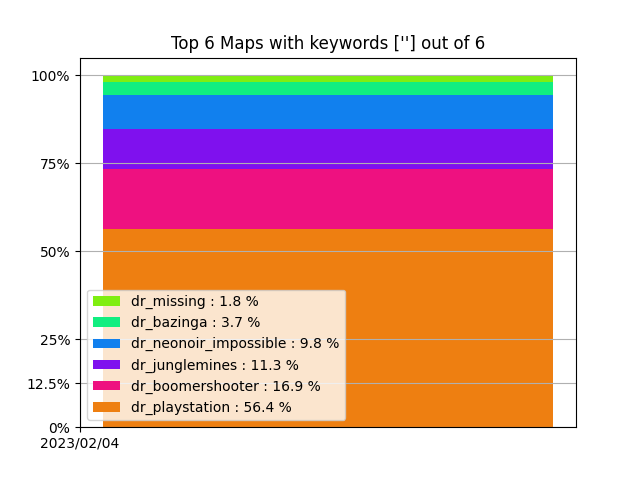
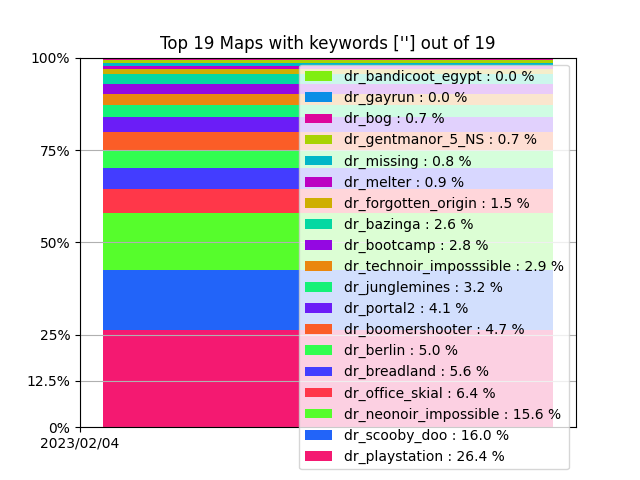
Fixed issue where writer would add maps from incorrect gamemodes.

diff --git a/write.py b/write.py
@@ -5,6 +5,7 @@ import datetime
 import requests
 import socket
 import csv
+import re
 from time import time,sleep
 
 #Manually adding submodule path from this path
@@ -26,13 +27,22 @@ Gamemode = "dr_"# Gamemode dr_,pl_,ctf_
 OutputFileName = "output.csv" #Output Filename
 RuntimeMinutes = 60 #for how many minutes to run.
 RunForever = True #True will run forever. Set to False to use runtime 
-Format = '%Y-%m-%d-%H:%M:%S' # date format
 
-#scan masterserver for ips, output address if it is running the desired gamemode
+
+#Do not touch
+Format = '%Y-%m-%d-%H:%M:%S'
+
+def PrefixEnsure(string):#Ensures that the gamemode is correct
+    prefix = re.split("_",string)[0].lower()+"_" 
+    if(prefix == Gamemode.lower()):
+        return True
+    else:
+        return False
+
 def SlowScan():
-    x = 0 # number of "broken" servers print me to see it
-    y = 0 # number of timed out servers
-    z = 0 #total servers
+    x = 0 # Servers
+    y = 0 # Broken Servers
+    z = 0 # Timeouts
     ips = []
     with valve.source.master_server.MasterServerQuerier(timeout=timeout_master) as msq:
         try:
@@ -42,7 +52,7 @@ def SlowScan():
                     server = a2s.info(address,timeout=timeout_query)
 
                     datastack = [address[0],address[1],server.map_name,server.player_count]
-                    if Gamemode in datastack[2]:
+                    if PrefixEnsure(datastack[2]):
                         datastack.append(datetime.datetime.now().strftime(Format))
                         print(f'!!!!{datastack} has been added')
                         response = requests.get(f"http://ip-api.com/json/{address[0]}").json()
@@ -85,9 +95,9 @@ def FastScan():
     print("######## SERVERS FOUND FROM CSV #################")
     return iplist
 def Listscan(list_ips=[]):
-    x = 0 # number of "broken" servers print me to see it
-    y = 0 # number of timed out servers
-    z = 0 #total servers
+    x = 0 # Servers
+    y = 0 # Broken Servers
+    z = 0 # Timeouts
     ips = []
     try:
         for address in list_ips:
@@ -96,7 +106,7 @@ def Listscan(list_ips=[]):
                 server = a2s.info(fix_address,timeout=timeout_query)
 
                 datastack = [address[0],fix_address[1],server.map_name,server.player_count]
-                if Gamemode in datastack[2]:
+                if PrefixEnsure(datastack[2]):
                     datastack.append(datetime.datetime.now().strftime(Format))
                     print(f'!!!!{datastack} has been added')
                     response = requests.get(f"http://ip-api.com/json/{address[0]}").json()
